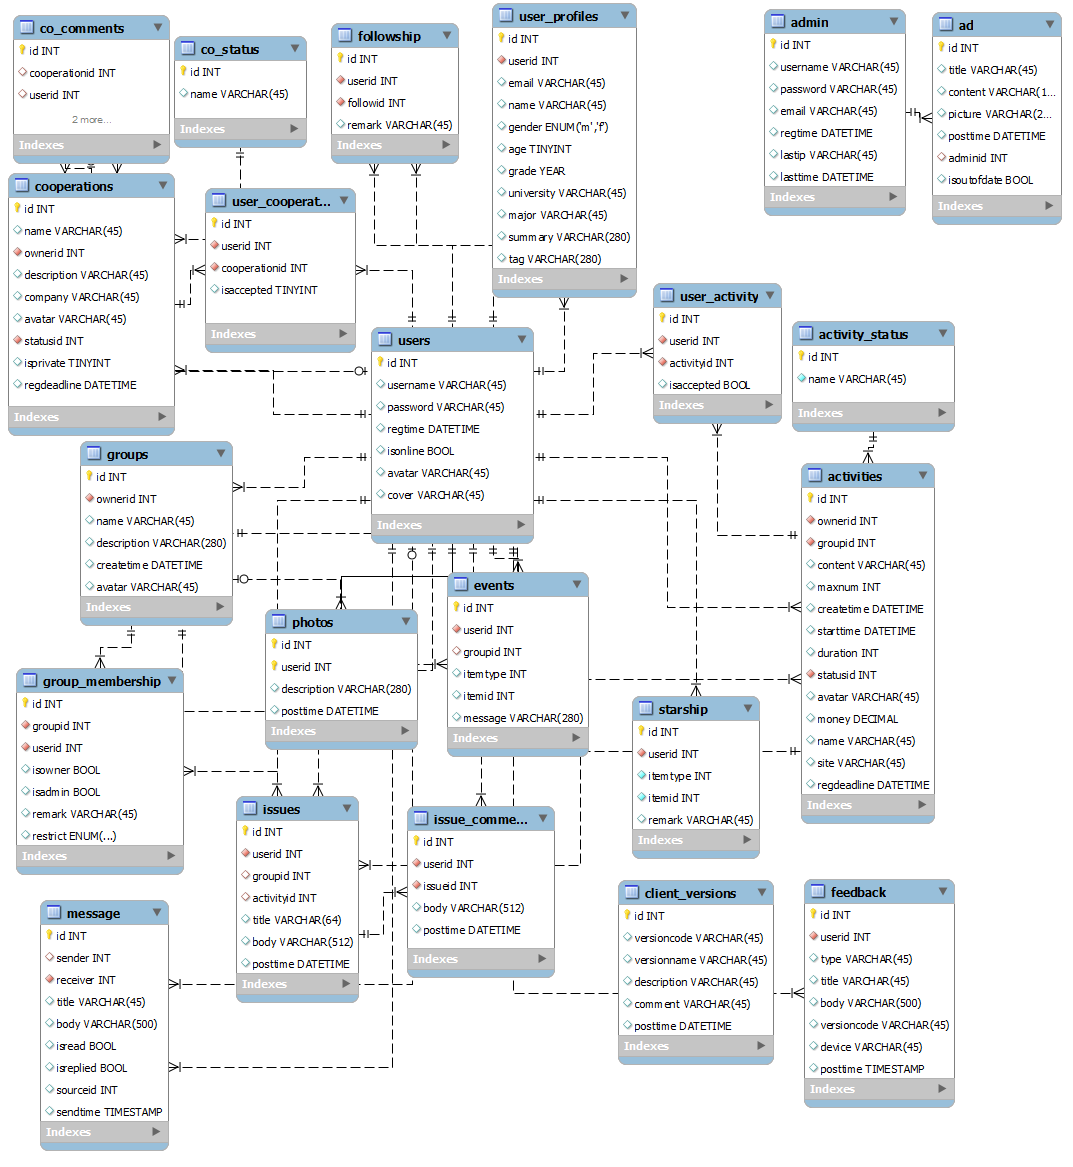
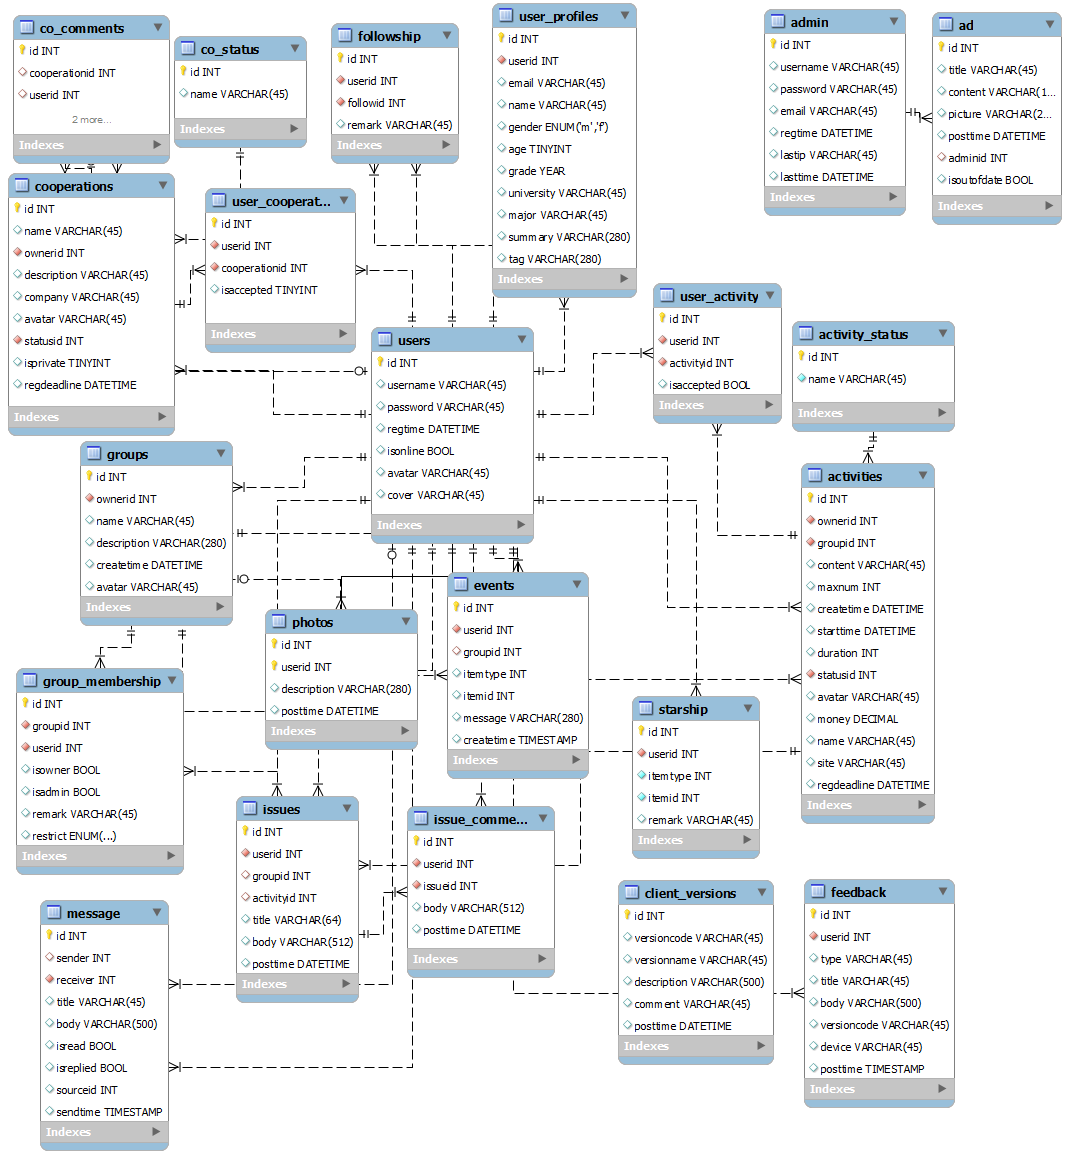
1.增加版本描述字段长度；2.为动态添加时间字段；3.测试页面增加字段

Changed region(s): [[0.3998, 0.617, 0.5536, 0.6787], [0.6766, 0.8329, 0.7074, 0.8638], [0.3998, 0.5553, 0.4306, 0.5861]]

diff --git a/static/index/test/index.html b/static/index/test/index.html
@@ -52,11 +52,29 @@
             <td><input type="text" onblur="$('#key4').attr({name: this.value});"/></td>
             <td><input type="text" id="key4"/></td>
         </tr><tr>
-        <td><input type="text" onblur="$('#key5').attr({name: this.value});"/></td>
-        <td><input type="text" id="key5"/></td>
+            <td><input type="text" onblur="$('#key5').attr({name: this.value});"/></td>
+            <td><input type="text" id="key5"/></td>
         </tr><tr>
             <td><input type="text" onblur="$('#key6').attr({name: this.value});"/></td>
             <td><input type="file" id="key6"/></td>
+        </tr><tr>
+            <td><input type="text" onblur="$('#key11').attr({name: this.value});"/></td>
+            <td><input type="text" id="key11"/></td>
+        </tr><tr>
+            <td><input type="text" onblur="$('#key12').attr({name: this.value});"/></td>
+            <td><input type="text" id="key12"/></td>
+        </tr><tr>
+            <td><input type="text" onblur="$('#key13').attr({name: this.value});"/></td>
+            <td><input type="text" id="key13"/></td>
+        </tr><tr>
+            <td><input type="text" onblur="$('#key14').attr({name: this.value});"/></td>
+            <td><input type="text" id="key14"/></td>
+        </tr><tr>
+            <td><input type="text" onblur="$('#key15').attr({name: this.value});"/></td>
+            <td><input type="text" id="key15"/></td>
+        </tr><tr>
+            <td><input type="text" onblur="$('#key16').attr({name: this.value});"/></td>
+            <td><input type="file" id="key16"/></td>
         </tr>
     </table>
     <button type="button" class="submitbutton" onclick="submitTest()">ajax提交</button>

diff --git a/models/event.js b/models/event.js
@@ -10,10 +10,15 @@ var _ = require('underscore'),
 Event = module.exports = syBookshelf.Model.extend({
 	tableName: 'events',
 	fields: [
-		'id', 'userid', 'groupid', 'itemtype', 'itemid', 'message'
+		'id', 'userid', 'groupid', 'itemtype', 'itemid', 'message', 'createtime'
 	],
 	omitInJSON: ['userid'],
 	appended: ['user'],
+	defaults: function () {
+		return {
+			createtime: new Date()
+		};
+	},
 
 	fetched: function (model) {
 		return Event.__super__.fetched.apply(this, arguments)
